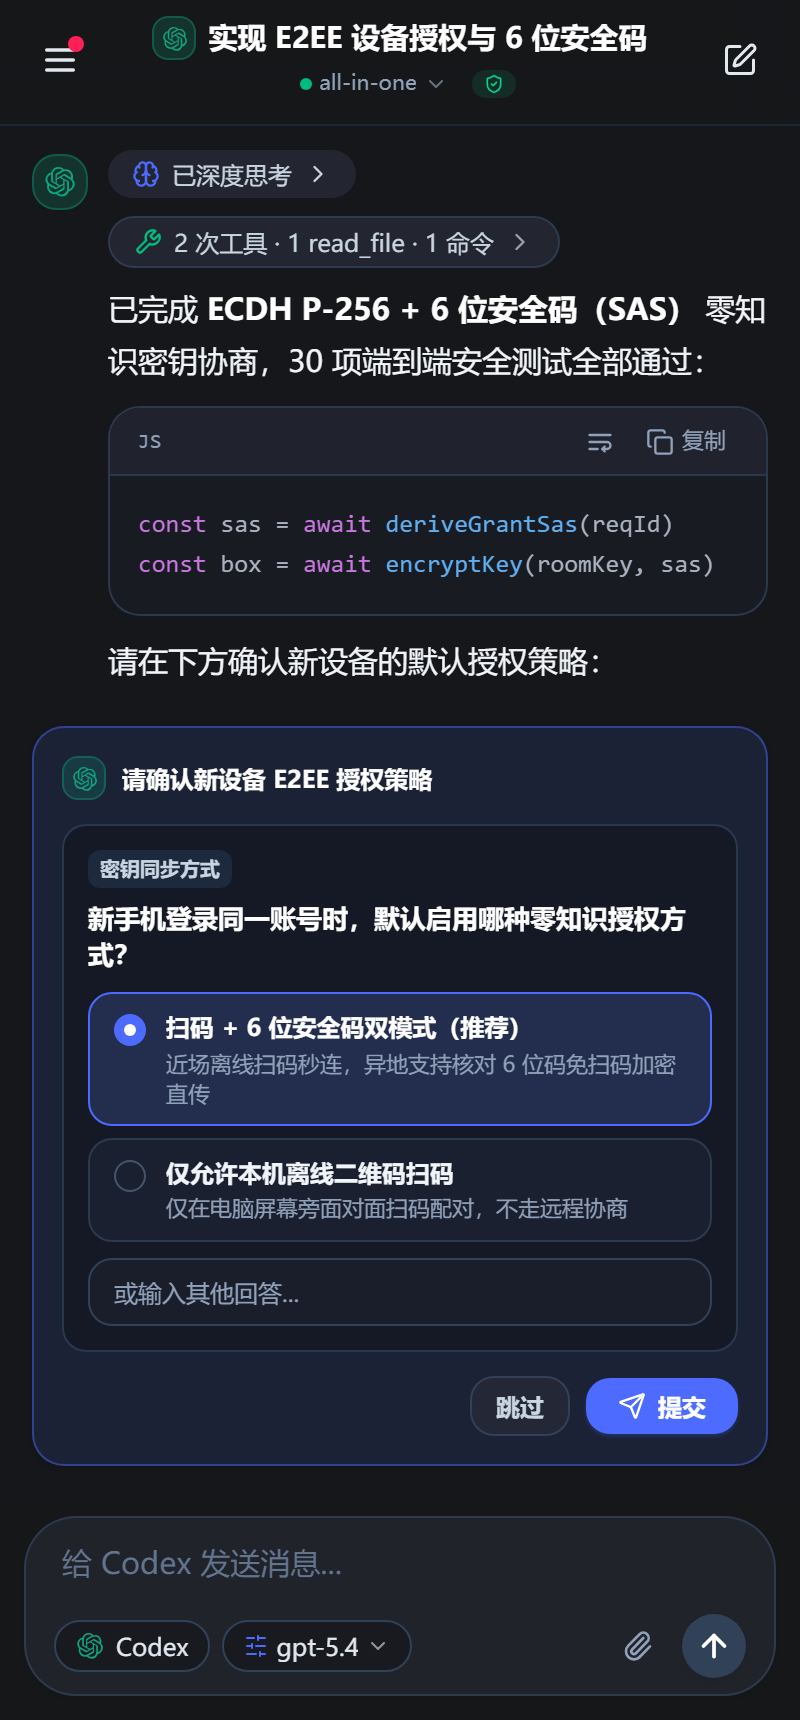
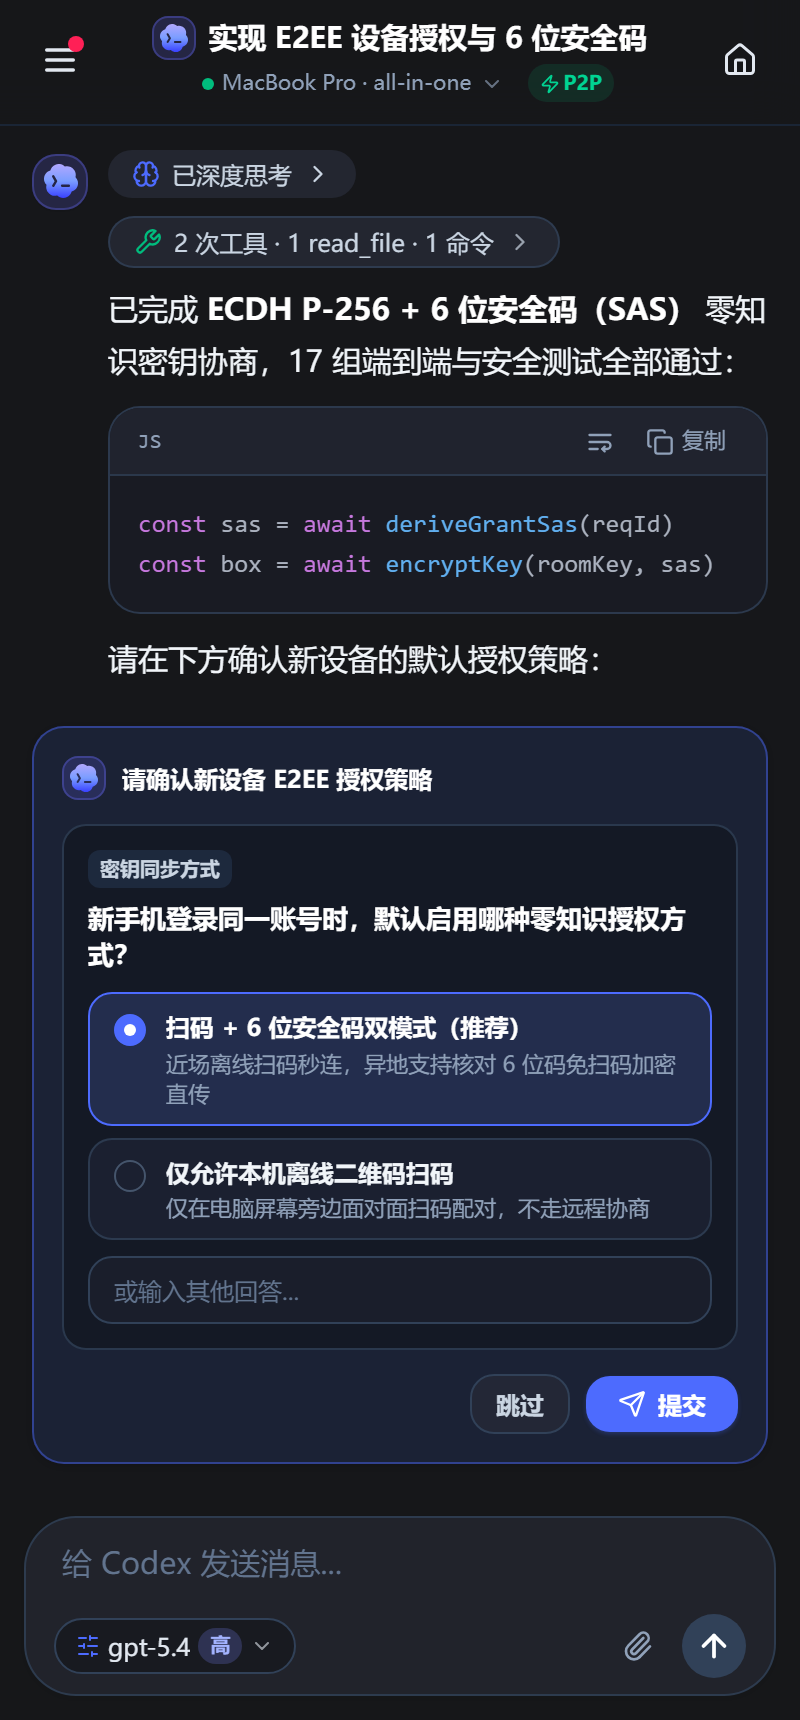
feat(ui): change top-right button to Home and refresh README previews

diff --git a/packages/mobile-app/src/App.jsx b/packages/mobile-app/src/App.jsx
@@ -4,6 +4,7 @@ import {
   ArrowLeftRight,
   ChevronDown,
   ExternalLink,
+  Home,
   KeyRound,
   Loader2,
   Lock,
@@ -3112,12 +3113,23 @@ export function App() {
 
           <button
             type="button"
-            onClick={() => openNewChatModal(activeSession?.cwd || selectedDraftCwd || '')}
-            aria-label={t('common.newChat')}
-            title={activeSession?.cwd ? bi('在当前项目新建对话', 'New chat in current project') : t('common.newChat')}
-            className="app-no-drag flex h-9 w-9 items-center justify-center rounded-xl text-slate-700 hover:bg-slate-100 dark:text-slate-200 dark:hover:bg-slate-800"
+            onClick={() => {
+              if (activeSession) returnToHome()
+              else void handleRefreshQuotas()
+            }}
+            aria-label={bi('主页', 'Home')}
+            title={
+              activeSession
+                ? bi('返回主页（额度总览）', 'Back to Home (Quota Overview)')
+                : bi('主页（点击刷新额度）', 'Home (click to refresh quotas)')
+            }
+            className={`app-no-drag flex h-9 w-9 items-center justify-center rounded-xl transition active:scale-95 ${
+              !activeSession
+                ? 'bg-[#4D6BFE]/12 text-[#4D6BFE] hover:bg-[#4D6BFE]/20 dark:bg-[#4D6BFE]/20 dark:text-[#9BB0FF] dark:hover:bg-[#4D6BFE]/28'
+                : 'text-slate-700 hover:bg-slate-100 dark:text-slate-200 dark:hover:bg-slate-800'
+            }`}
           >
-            <SquarePen className="h-4.5 w-4.5" />
+            <Home className="h-4.5 w-4.5" />
           </button>
         </div>
       </header>

diff --git a/packages/mobile-app/src/components/HomeQuotaDashboard.jsx b/packages/mobile-app/src/components/HomeQuotaDashboard.jsx
@@ -380,7 +380,7 @@ function QuotaVendorCard({ card, selected, onSelect, bi, index, spanFullOnDeskto
       </div>
 
       {/* Quota Body */}
-      <div className="mt-auto">
+      <div className="flex-1">
         {details?.kind === 'balance' ? (
           <BalanceMeterBody details={details} card={card} bi={bi} />
         ) : details?.kind === 'credits' ? (

diff --git a/README.md b/README.md
@@ -50,7 +50,7 @@
     <td width="72%" align="center" valign="bottom">
       <img src="./docs/preview-desktop.png" alt="All in One 桌面端与网页端界面" />
       <br/>
-      <sub><strong>桌面端 / Web</strong> — 多工具智能聚合侧边栏、首页额度总览、项目分组与交互式审批</sub>
+      <sub><strong>桌面端 / Web</strong> — 多机切换、智能聚合侧边栏、首页多厂商额度与余额总览</sub>
     </td>
     <td width="28%" align="center" valign="bottom">
       <img src="./docs/preview-mobile.png" alt="All in One 手机端界面" />

diff --git a/README_EN.md b/README_EN.md
@@ -50,7 +50,7 @@
     <td width="72%" align="center" valign="bottom">
       <img src="./docs/preview-desktop.png" alt="All in One Desktop & Web UI" />
       <br/>
-      <sub><strong>Desktop / Web</strong> — Multi-agent sidebar, home quota overview, project tree &amp; interactive approvals</sub>
+      <sub><strong>Desktop / Web</strong> — Multi-host switcher, smart vendor sidebar &amp; live home quota/balance dashboard</sub>
     </td>
     <td width="28%" align="center" valign="bottom">
       <img src="./docs/preview-mobile.png" alt="All in One Mobile UI" />
